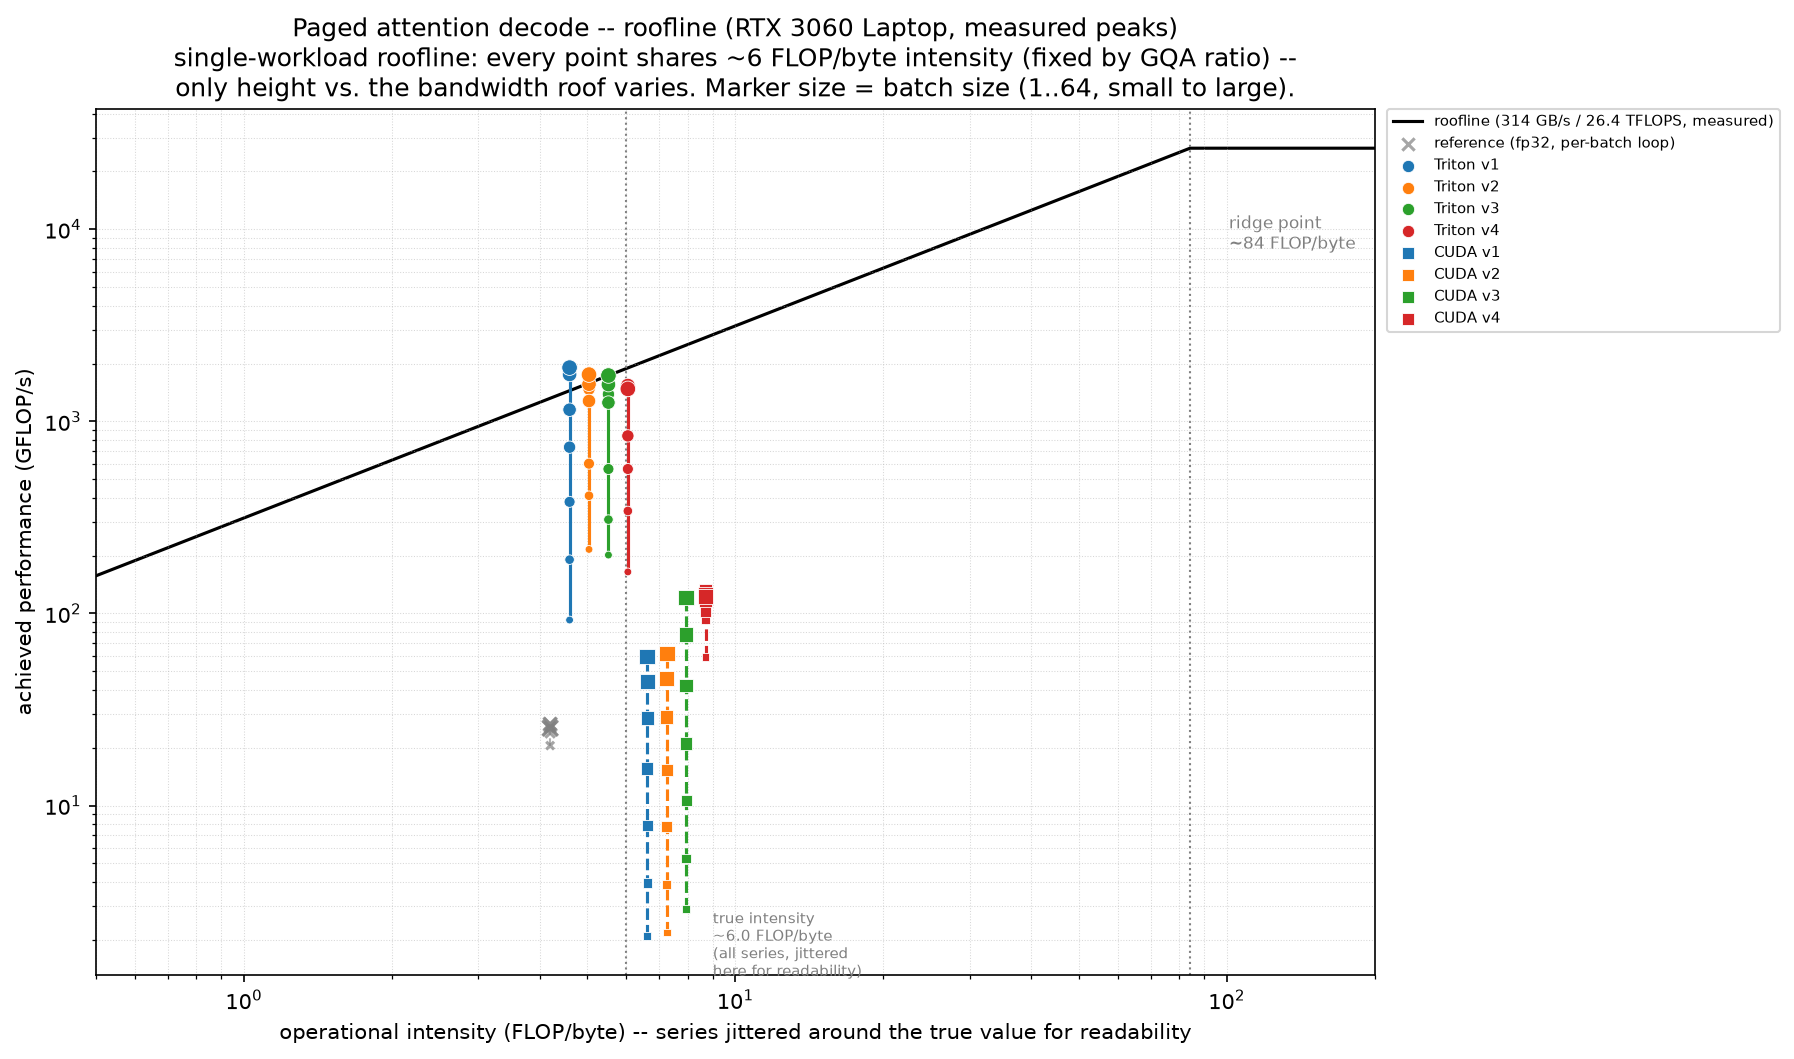
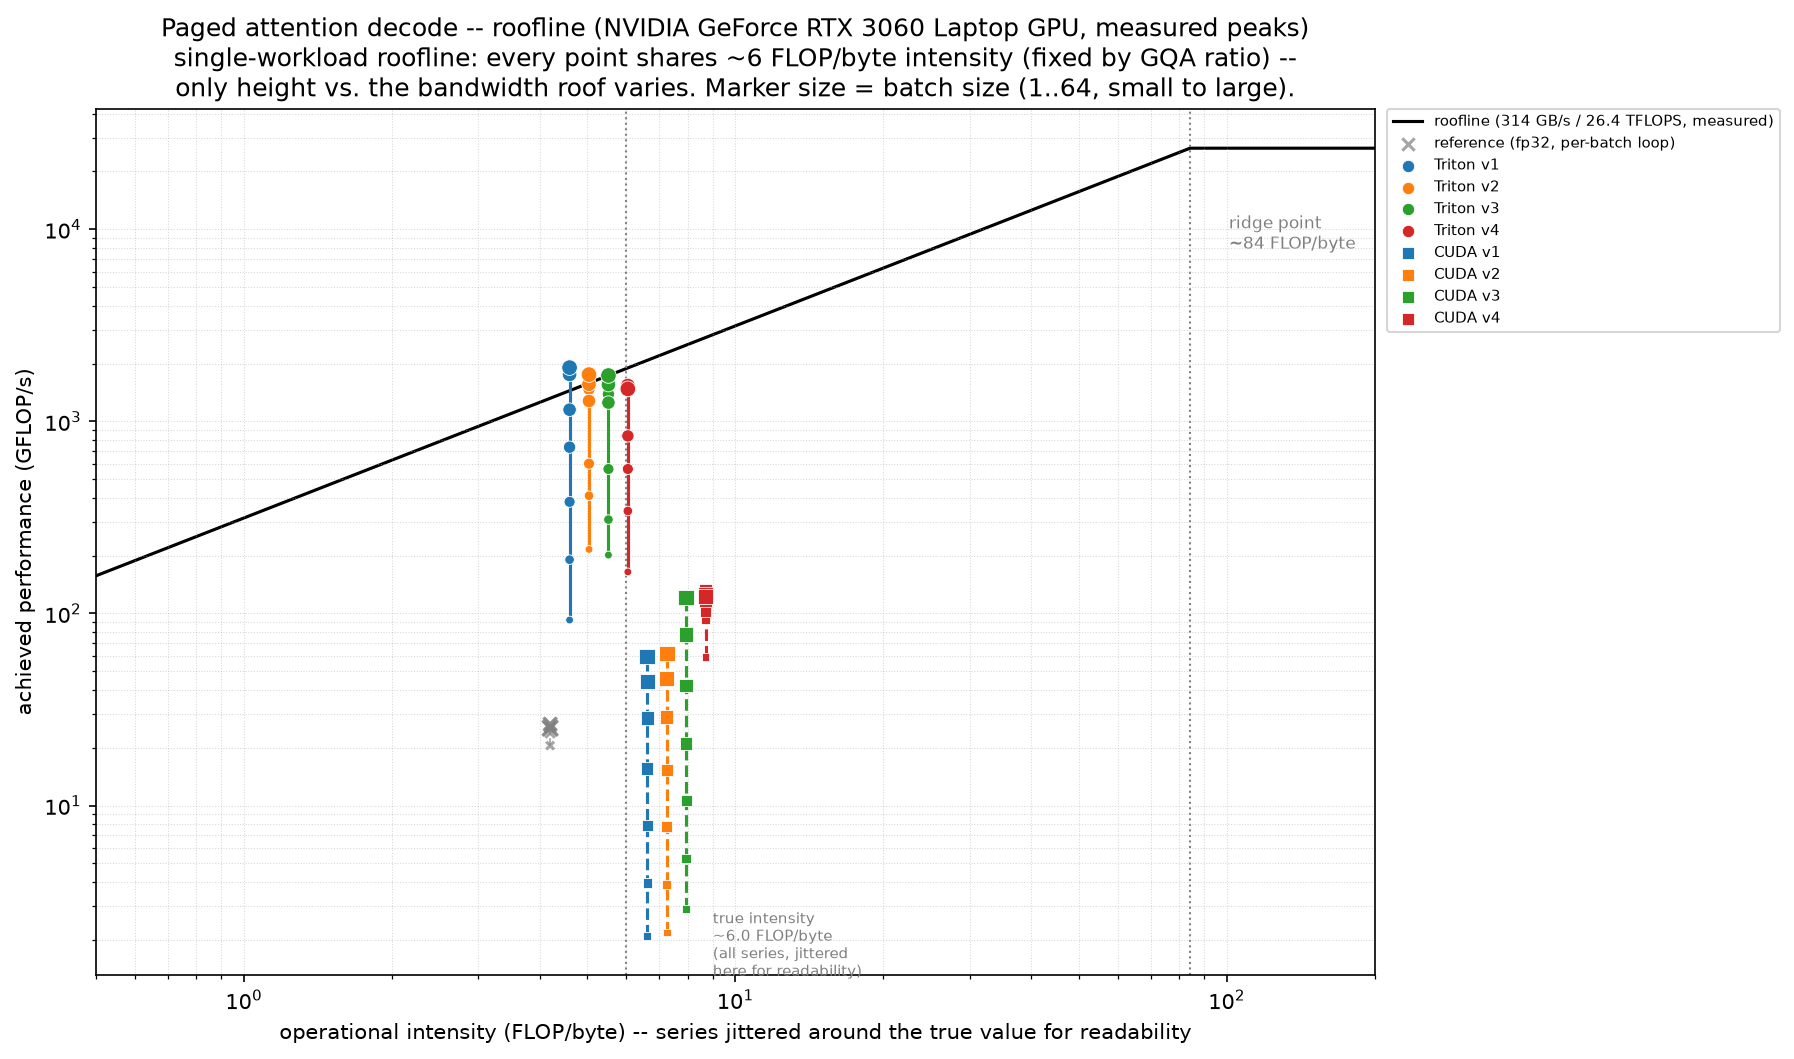
Fix roofline.py's plot title hardcoding "RTX 3060 Laptop"
Caught while generating the A100 pod's own roofline plot: the title was
a fixed string, so the A100 run's chart would have falsely labeled
itself as measured on the RTX 3060 Laptop. peak_bw.json already records
gpu_name (from _gpu_power_state()) -- use that instead, so the title is
correct on whatever machine actually ran it.

Changed region(s): [[0.0936, 0.0, 0.7179, 0.0312]]

diff --git a/bench/roofline.py b/bench/roofline.py
@@ -188,7 +188,7 @@ def main() -> None:
     ax.set_xlabel("operational intensity (FLOP/byte) -- series jittered around the true value for readability")
     ax.set_ylabel("achieved performance (GFLOP/s)")
     ax.set_title(
-        "Paged attention decode -- roofline (RTX 3060 Laptop, measured peaks)\n"
+        f"Paged attention decode -- roofline ({peak_bw['gpu_name']}, measured peaks)\n"
         "single-workload roofline: every point shares ~6 FLOP/byte intensity (fixed by GQA ratio) --\n"
         "only height vs. the bandwidth roof varies. Marker size = batch size (1..64, small to large)."
     )
